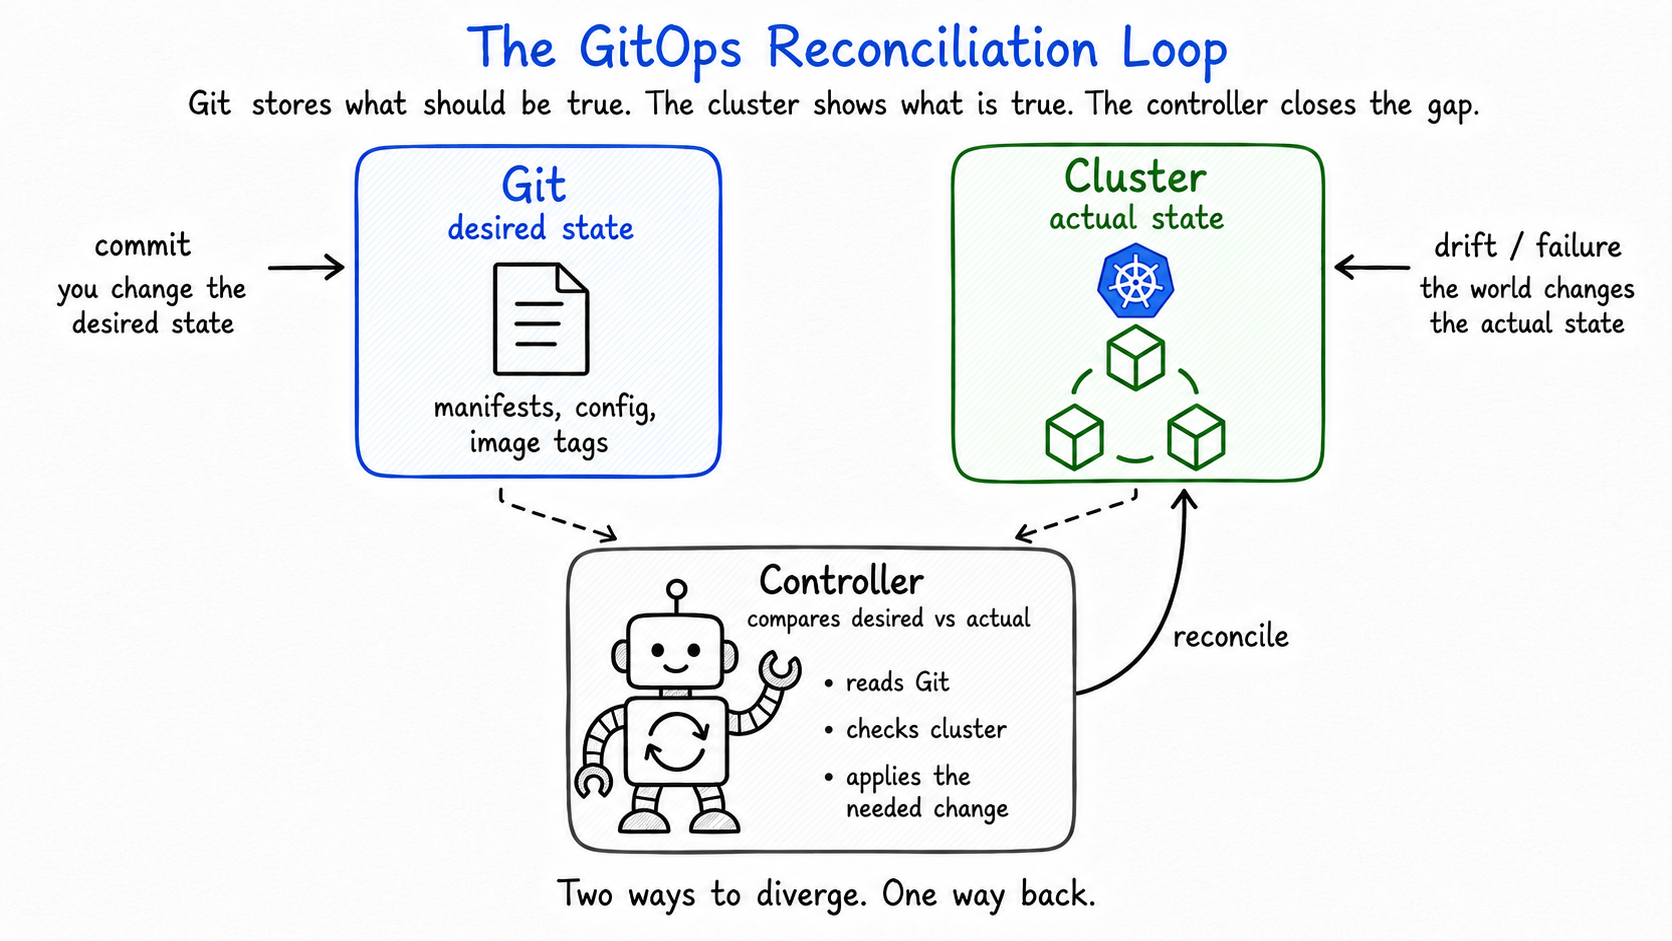
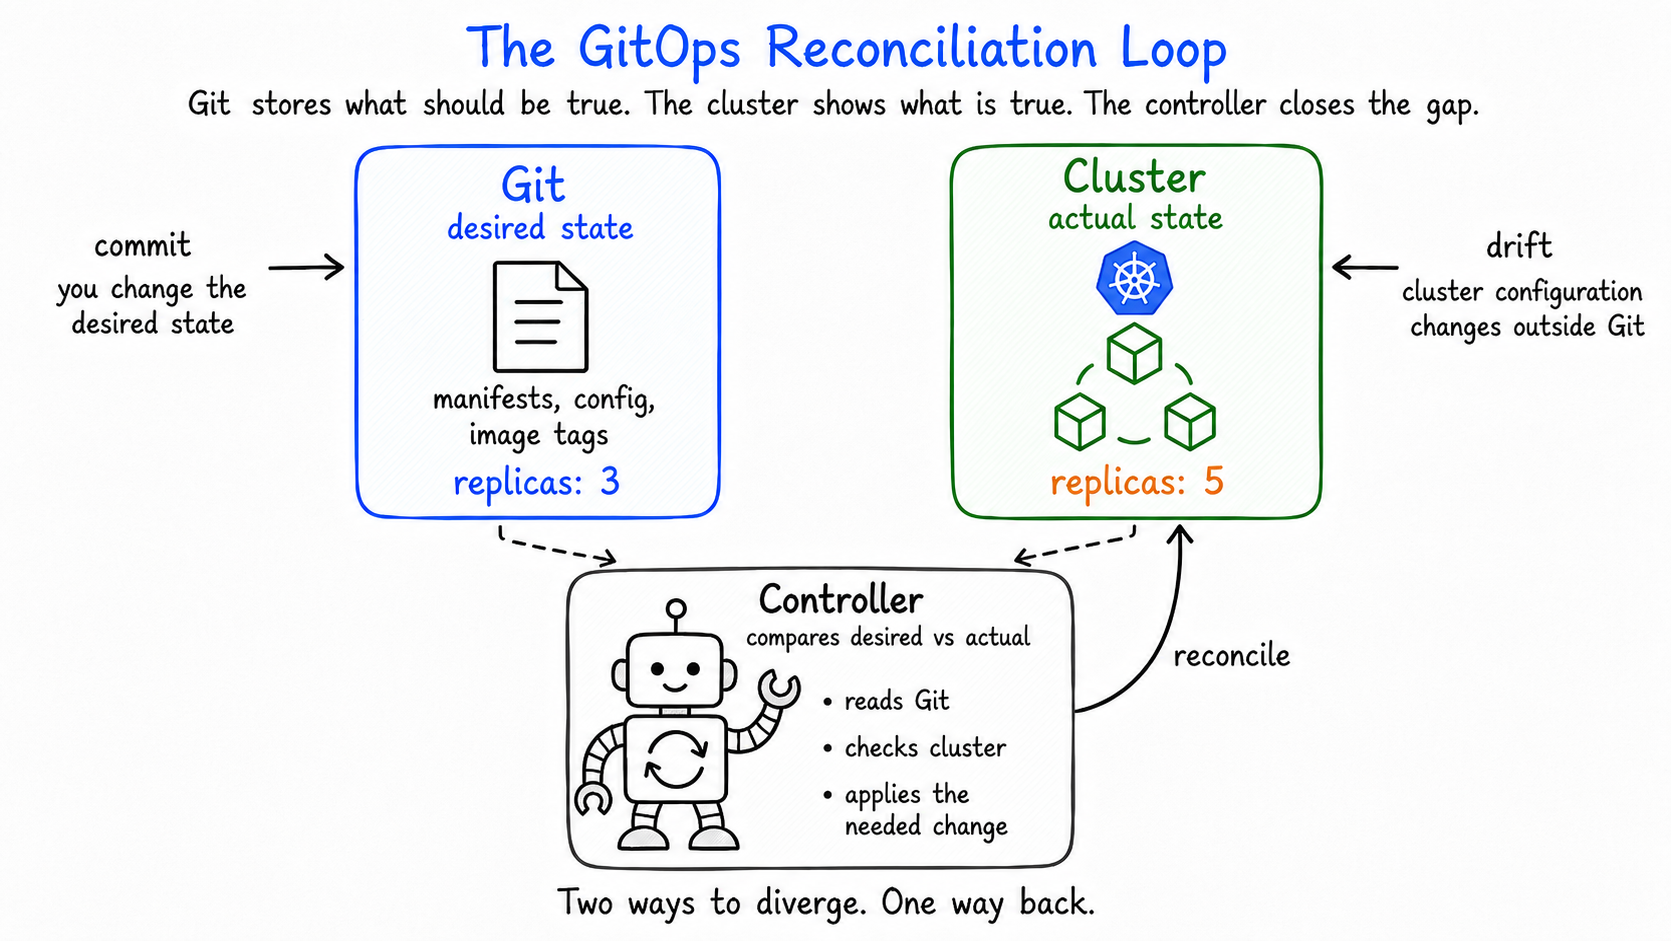
docs: rewrite Day 1 around the reconciliation loop
Restructure Day 1 from a definition-first overview into a single
narrative: a drift incident, the controller that resolves it, and the
watch/compare/reconcile loop traced one cycle at a time.

- Add sections on the GitOps/Kubernetes boundary (which loop owns which
  failure) and where CI stops, replacing the pull-vs-push framing.
- Update the third learning objective to match: the day now teaches
  where the controller's job ends, not why pull beats push.
- Add four diagrams: life-before-gitops, gitops-corrects-drift,
  gitops-workflow, and a replacement gitops-reconciliation-loop that
  also refreshes the README embed (alt text unchanged and still
  accurate).
- Drop six images no longer referenced anywhere in the repo.

diff --git a/Day-1-What-really-is-GitOps.md b/Day-1-What-really-is-GitOps.md
@@ -2,165 +2,243 @@
 
 > **No tools needed today.** This is all mental model — by the end, you'll be able to predict what a GitOps controller does before you've ever touched one.
 
-Let's get straight into it.
-
 By the end of this session, you'll be able to:
 
 - State GitOps in one clear sentence.
 - Trace the reconciliation loop — watch, compare, reconcile — and explain what happens at each step.
-- Explain why pull beats push for Kubernetes, and what that changes for drift, security, and recovery.
+- Explain where the GitOps controller's job ends, and what Kubernetes and CI handle instead.
 - Name the four CNCF principles and recognise them in action.
 
-## The idea — and the loop behind it
+## The problem GitOps solves
 
-If you've used Kubernetes for any length of time, you've seen drift — what's running in the cluster quietly diverges from what you thought was deployed. A manual fix here, an emergency tweak there, and before long your cluster and your repo tell two different stories.
+If you've run Kubernetes for any length of time, you've lived some version of this story.
 
-Teams have tried to close that gap. Configs in Git, deployment scripts, CI pipelines that run on every commit. They help, but they still leave a window: manual changes or external systems can sneak in between pipeline runs, and that's where configuration rot takes hold.
+Your deployment manifests live in a Git repo, because that's good practice. The repo says `replicas: 3`. Meanwhile, at some point during last week's traffic spike, someone on the team ran `kubectl scale deployment app --replicas=5` — a perfectly reasonable thing to do mid-incident. It worked. Everyone moved on.
 
-In 2017, engineers at Weaveworks proposed a different approach: instead of pushing changes into the cluster, let the cluster pull its own configuration from Git — and enforce it continuously. The idea gained traction quickly. Tools like Flux and Argo CD put it into practice, and the CNCF's [OpenGitOps project](https://opengitops.dev) formalised the core principles so teams everywhere could work from the same playbook.
+Now look at the picture your team is left with:
 
-The result is a single idea:
+<p align="center"><img src="./assets/images/life-before-gitops.png" width="80%" alt="Life before GitOps: a developer commits replicas: 3 to the config repo while an operator scales the cluster to 5 directly. Nothing compares the two."></p>
 
-**GitOps means storing the desired state of your system in Git, and running a controller inside the cluster that continuously pulls that state and reconciles the cluster to match it.**
+The repo says one thing. The cluster says another. Nothing compares them — and neither change is wrong. The developer followed the process. The operator fixed a real problem. That's what makes this failure mode so common: it isn't caused by mistakes. It's caused by having two places where truth can live and no mechanism that reconciles them.
+
+So configuration drifts. Quietly, one reasonable change at a time, until the repo is a well-organised work of fiction and the only way to know what's actually running is to go look.
+
+Teams have tried to close this gap by keeping configuration in Git, adding deployment scripts, and running a CI pipeline on every commit. Each one helps, but they share the same blind spot: they act at deploy time. Between deployments, where real life happens, changes made directly to the cluster go unrecorded and uncorrected.
+
+In 2017, engineers at Weaveworks proposed a different operating model and gave it a name: GitOps.
+
+**Store the desired state of your system in Git, and run a controller in the cluster that continuously pulls that state, compares it with what is actually running, and reconciles any difference.**
 
 > If it's not in Git, it shouldn't exist in the cluster.
 > If it's in Git, the cluster should match it.
 
-<img src="assets/images/What-Exactly-Is-GitOps.png" width="50%" alt="GitOps overview comic — define infrastructure as code, store configuration in Git, and a system ensures the cluster matches it.">
+The controller doesn't decide whether three or five is the better number. It makes Git the place where that decision must be recorded.
 
-That controller follows a loop — and it's worth naming it now, because everything else in this series builds on it:
+Look at the diagram again. The question mark in the middle represents the missing mechanism. GitOps fills that space with a controller. And that controller runs a loop worth naming now, because this entire series is built on it:
 
-**Watch → Compare → Reconcile**
+**Watch → Compare → Reconcile.**
 
-- **Watch** — the controller monitors your Git repository for changes.
-- **Compare** — it checks what Git says (desired state) against what's actually running in the cluster (actual state).
-- **Reconcile** — if there's a difference, it updates the cluster to match Git.
+Watch the desired state in Git and the actual state in the cluster. Compare them. Reconcile the cluster whenever they differ. Then repeat, continuously — every few seconds or minutes, not only when someone deploys.
 
-That's the **reconciliation loop**. It runs continuously on a short, predictable cycle — like a heartbeat keeping your cluster aligned. When we refer to "the loop" from here on, this is what we mean.
+By the end of today, you'll be able to predict what the controller will do when Git changes, when the cluster drifts, and when the two disagree in ways you didn't expect.
 
-## Beyond just storing YAML in Git
+## What the controller changes
 
-You might be thinking, *"Hang on — we already keep our manifests in Git. Isn't that GitOps?"*
+Most teams already keep their manifests in Git. If that alone were enough, drift wouldn't persist — the repo in our story said `replicas: 3` the whole time. The record was fine. What was missing was enforcement.
 
-It's a fair question. Most teams do store their Kubernetes configs in Git, and that's a good habit. But here's the thing: storing YAML in Git is like writing down the rules and never checking if anyone's following them.
+Adding a controller — software running inside the cluster, watching Git and acting on what it finds — changes four things at once.
 
-The missing piece is a **controller**.
+**Authority** moves from whoever last touched the cluster to the desired state recorded in Git. You still decide what should run, through commits and reviews. The controller enforces that decision every cycle, without forgetting.
 
-Without one, your Git repo is a record — a place where intentions are documented but never enforced. Changes might get applied by a script, a pipeline, or someone running `kubectl apply` from their laptop. And between those moments, anything can happen. Someone edits a resource directly. A quick fix goes in and never makes it back to Git. The cluster drifts, and your repo doesn't know about it.
+**Direction** reverses. Instead of a deployment pipeline pushing changes into the cluster, the controller pulls the desired state from Git. CI no longer needs deployment credentials for the cluster.
 
-Add a controller, and everything shifts.
+**Timing** becomes continuous. Reconciliation is no longer tied to deployment events. The controller checks on a regular cycle, so drift is corrected before it can quietly accumulate.
 
-YAML in Git without a controller is a record.
+**Evidence** becomes durable. Every change meant to persist flows through Git — commits, branches, reviews. Direct cluster changes can still happen, but there's only one path for a change to become authoritative: Git.
+
+Here's what those four shifts add up to in practice — our incident again, this time with a controller running and automatic self-healing in place:
+
+<p align="center"><img src="./assets/images/gitops-corrects-drift.png" width="80%" alt="GitOps corrects configuration drift: Git declares replicas: 3, a manual kubectl scale sets the cluster to 5, and the controller reconciles the cluster back to 3."></p>
+
+The manual scale to 5 still works in the moment. GitOps changes not whether Kubernetes accepts the command, but whether that change is allowed to become the lasting truth.
+
+On the controller's next pass, it compares: Git says 3, the cluster says 5. It sets the cluster back to 3 — no argument, no meeting; the disagreement was resolved by a comparison, not a conversation. And if 5 turns out to be the right number after all? The caption on the diagram is the entire procedure: commit it. The emergency change becomes a one-line PR, reviewed and recorded, and from then on the controller defends 5 instead.
+
+That's the line between the two worlds:
+
+YAML in Git without a controller is a **record**.
 YAML in Git *with* a controller is a **system**.
 
-That one addition — software running inside the cluster, watching Git and acting on what it finds — changes four things at once:
+## The loop, one cycle at a time
 
-**Authority** moves from you to the controller. You're no longer the one applying changes, remembering to run commands, or hoping the pipeline caught everything. The controller does it, every cycle, without forgetting.
+You've already seen the loop correct drift: the controller detected that someone had manually scaled the service, noticed the cluster no longer matched Git, and brought the cluster back into alignment. Now let's slow the loop down and watch a complete cycle unfold — because the same machinery that fixes drift is also the machinery that deploys everything in a GitOps system. Deployment and drift correction are not separate capabilities. They are the same reconciliation process, responding to different causes of change.
 
-**Direction** reverses. Instead of pushing changes into the cluster from the outside, the cluster pulls its own configuration from Git. Nothing external needs access to your cluster's API.
+Pick up the story where we left it. The emergency scale was correct: five replicas really is what the service needs. So the team captures that decision properly — someone opens a pull request with the one-line change, a teammate reviews it, and the change is merged. Git now says `replicas: 5`. But the cluster is still running 3. Why? Because the controller already corrected the manual change: when someone scaled the cluster directly, the controller saw that Git still declared 3 and restored the cluster to match.
 
-**Timing** becomes continuous. Instead of changes landing whenever someone triggers a pipeline or runs a command, reconciliation happens automatically on a short, predictable cycle. Drift doesn't get a chance to accumulate.
+Now notice what has happened. The two states disagree again — but this time the direction of change is reversed. Previously, the cluster changed and Git stayed the same. Now Git changed and the cluster stayed the same: the desired state has moved, and the cluster hasn't caught up with it. The disagreement looks different, but to the controller it is exactly the same problem — desired ≠ actual — and it is about to respond using the same three-step routine we introduced at the beginning: watch, compare, reconcile.
 
-**Evidence** becomes complete. Every change flows through Git — commits, branches, pull requests, reviews. There are no side doors. If something changed, you can trace exactly when, why, and who.
+<p align="center"><img src="./assets/images/gitops-reconciliation-loop.png" width="80%" alt="The GitOps reconciliation loop: Git stores the desired state, the cluster runs the actual state, and a controller reconciles the cluster whenever the two differ — whether from a commit or from drift."></p>
 
-Here's what that looks like in practice:
+**Watch — gather both sides of reality.** The controller begins by collecting two snapshots. From Git, it reads the desired state: `replicas: 5`. This is what the system *should* look like. From the cluster, it reads the Deployment as currently recorded: `replicas: 3` — the actual state, as far as the controller can see. Nobody manually triggered this check — the reconciliation cycle was going to happen anyway. The merge didn't start the loop; it simply created a difference for the next cycle to discover. The controller now holds both sides of the picture: desired 5, actual 3.
 
-You merge a PR that sets `replicas: 3`.
-Later, someone bumps it to 5 by hand.
-In the next reconciliation cycle, the controller spots the mismatch and sets it back to 3.
-No Slack pings. No late-night debugging. If you *really* want 5 replicas, you change Git. If you need to undo a bad change, you revert the commit.
+**Compare — determine whether alignment exists.** Next, the controller compares the two snapshots. The Deployment is identical in every important way except one field: desired says 5, actual says 3. The result of Compare is a verdict — desired ≠ actual. That's all Compare produces. It only answers one question: are the two states aligned?
 
-That's the line between "we store YAML in Git" and "we do GitOps." The YAML was never the point — the enforcement is.
+**Reconcile — move reality toward the declaration.** The answer is no, so the controller acts. It applies the declared Deployment with `replicas: 5`, and Kubernetes responds by creating two additional pods. The cluster moves from 3 to 5. Now compare this cycle with the drift correction earlier. Previous cycle: desired 3, actual 5 — the action was scale down. This cycle: desired 5, actual 3 — the action is scale up. The action changed direction. The rule did not. The controller always drives actual state toward desired state.
 
-## The reconciliation loop in detail
+**Deployment and drift correction are the same thing.** This is the key idea. A deployment is reconciliation. Drift correction is reconciliation. The controller doesn't have separate logic for "a developer merged a feature," "someone changed the cluster manually," "a rollback was requested," or "an incident fix was committed." All of these become the same question: does the live system match the declared system? If yes, nothing happens. If no, the controller changes reality until they match.
 
-You've seen what the loop does. Now let's open it up and watch one full cycle happen.
+**The loop continues.** After the replicas are updated, the next cycle begins. The controller checks again: desired 5, actual 5. The states match, so the controller makes no change — and that nothing is not inactivity, it's verification. The controller is continuously confirming that the system remains aligned. In a healthy GitOps environment, most reconciliation cycles end this way: watch → compare → desired = actual → no change required. The loop is not a deployment event that runs only when someone pushes code. It's a continuous heartbeat that keeps asking: does reality still match the declaration?
 
-Imagine you have a Git repo containing a Kubernetes Deployment manifest. It declares a simple nginx pod with `replicas: 3` and an image tag of `nginx:1.25`. The GitOps controller — let's say Flux — is installed in your cluster and pointed at that repo.
+Here's the sentence that makes the entire model predictable, and it's worth reading twice:
 
-Here's what one cycle looks like:
+**To the reconciliation loop, a deliberate commit and a manual change reduce to the same condition: desired ≠ actual. The controller moves actual toward desired.**
 
-### Watch
+The controller doesn't understand human intent. It doesn't know that this was an emergency fix, that was a planned feature, this was an accident, that was a rollback. It knows one thing: desired and actual are different. When they differ, it reconciles. The action may be scaling up after a Git change, scaling down after drift, deploying a new version, or restoring a previous one. The mechanism is always the same: **desired state governs actual state.**
 
-The controller polls your Git repository on a regular interval — typically every few minutes. It's not waiting for you to trigger anything. It checks whether the repo has changed since the last time it looked.
+That is the reconciliation loop.
 
-This time, it finds a new commit. You updated the image tag from `nginx:1.25` to `nginx:1.26`.
+## What the controller does — and what it leaves to others
 
-### Compare
+By now, you might be giving the GitOps controller too much credit. It's easy to imagine the controller as the thing that manages everything: deploying applications, fixing failures, recreating pods, and keeping the whole platform healthy.
 
-The controller now holds two pictures of reality:
+But that's not its job. To understand GitOps properly, you need to understand its boundaries. Knowing what the controller **does not** do is just as important as knowing what it does.
 
-- **Desired state** — what Git says: `nginx:1.26`, three replicas.
-- **Actual state** — what's running in the cluster: `nginx:1.25`, three replicas.
+Start with something you saw in the previous cycle. The controller detected desired = 5 replicas, actual = 3 replicas, so it reconciled by applying the Deployment with `replicas: 5`. Then Kubernetes created the two missing pods.
 
-It compares them field by field. Replicas match. Image tag doesn't.
+Notice what did **not** happen. The GitOps controller did not create pods. It did not schedule containers. It did not choose nodes. It changed the desired definition, and Kubernetes handled everything below that.
 
-### Reconcile
+That is the boundary.
 
-The controller applies the difference. It updates the Deployment in the cluster to use `nginx:1.26`. Kubernetes does what it always does — rolls out new pods, drains the old ones.
+### Kubernetes already has its own reconciliation loop
 
-No pipeline triggered this. No one ran `kubectl apply`. The cluster saw the intent in Git and acted on it.
+Kubernetes is itself a reconciliation system. When you declare a Deployment with `replicas: 5`, you're telling Kubernetes that the cluster should continuously maintain five running copies of the application. Kubernetes controllers then work continuously to make reality match that declaration.
 
-### And then it keeps going
+- A pod crashes → the pod disappears → Kubernetes notices → a replacement pod is created.
+- A node fails → the node disappears → Kubernetes detects missing workloads → pods are rescheduled elsewhere.
 
-This is the part that separates GitOps from a one-time sync. The cycle doesn't stop after one successful reconciliation — it starts again. The controller polls Git again. Compares again. If everything matches, it does nothing. If something has drifted — say someone manually scaled the Deployment to 5 replicas — it corrects it on the next pass.
+None of this requires GitOps. No Git commit, no pull request, no Flux, no Argo CD. Kubernetes has been doing this since long before GitOps existed.
 
-That's why we called it a heartbeat in the previous section. It's not a deployment event. It's a continuous process. The cluster is never more than one cycle away from matching Git.
+### GitOps adds another reconciliation layer
 
-### What the controller doesn't do
+So what does the GitOps controller add? One layer above Kubernetes. The simplest way to remember it:
 
-It's worth being clear about boundaries. The controller reconciles what's declared in Git. It doesn't make decisions about *what should be* in Git — that's your job, through commits and pull requests. It doesn't build images, run tests, or manage CI. It has one responsibility: make the cluster match Git, and keep it that way.
+**Kubernetes heals workloads. GitOps heals definitions. It's the same loop, one layer up.**
 
-This separation is what makes the model clean. You think, Git records, the controller enforces.
+The two systems are solving different problems. Kubernetes keeps the objects inside the cluster running: it turns a Deployment into pods, and pods into containers. GitOps keeps those objects aligned with Git: it takes what the repository declares and makes the cluster's objects match.
+
+Together they form two stacked reconciliation loops. Each loop has its own source of truth, its own desired state, its own responsibility. The GitOps controller watches Git. Kubernetes watches the cluster.
+
+There is an important distinction here. The GitOps controller never looks at a pod. Not once.
+
+When it reads the "actual state," it is not checking how many containers are running, whether pods are healthy, or which nodes are hosting workloads. Instead, it reads the Kubernetes objects stored in the cluster. It compares the Deployment definition in Git with the Deployment object currently stored in Kubernetes, and its question is a narrow one: does the cluster's declared configuration match what Git declares? Whether the five pods behind that Deployment are actually running is a different question entirely, and it belongs to Kubernetes.
+
+This means "actual state" has a different meaning depending on which reconciliation loop you're talking about. For the GitOps controller, actual state is the configuration currently stored in Kubernetes. For Kubernetes, actual state is the workloads that are actually running.
+
+The Kubernetes object sits between these two worlds. It is the actual state from the GitOps controller's perspective, but it becomes the desired state that Kubernetes tries to enforce. That handoff is the entire relationship between the two loops.
+
+### Why some failures trigger GitOps and others do not
+
+Return to our manual scaling. Someone changed the Deployment from `replicas: 3` to `replicas: 5`. The definition changed. Git still said 3, the cluster definition said 5. The disagreement existed at the GitOps layer, so the GitOps controller responded: Git ≠ cluster definition. It reconciled and restored the Deployment.
+
+Now consider a different failure. It's 2 AM, a node crashes, and three pods disappear. What does the GitOps controller do?
+
+Nothing.
+
+Why? Because the Deployment still says `replicas: 5`, and Git still says `replicas: 5`. The definitions are aligned. And more than that — the controller never saw the crash at all. Pods are not something it reads. The problem existed below the GitOps layer, where Kubernetes notices that the Deployment requires five pods, only two exist, and repairs the situation itself.
+
+Now change one detail. Someone deletes the Deployment itself.
+
+This is different. The definition is gone. Git says the Deployment exists; the cluster says it's missing. Now the GitOps loop detects desired ≠ actual and restores the Deployment. Then Kubernetes sees a Deployment that exists with no pods behind it, and its own reconciliation loop creates them.
+
+Two loops, two responsibilities, one recovery. This is what people mean when they say Kubernetes and GitOps provide self-healing behaviour: each system heals the part it owns. In the Day 2 lab, you'll trigger exactly this and watch both layers respond.
+
+### What the controller does not decide
+
+The boundary above the controller matters too. The GitOps controller enforces what Git declares. It does not decide what Git *should* declare. That decision belongs to humans and the delivery pipeline.
+
+The controller does not decide whether a feature is good, review application code, choose replica counts, approve architecture changes, or determine whether an application is healthy. Those decisions happen before reconciliation. The controller simply enforces the result.
+
+It also does not replace CI. The GitOps controller does not build container images, run unit tests, scan for vulnerabilities, or package applications. That's CI's responsibility — and we'll place that boundary precisely in the next section.
+
+And it does not monitor whether your application is actually succeeding. It does not know whether users are happy, whether latency is acceptable, or whether the application is producing correct results. A cluster can be perfectly synchronised with Git and still running a terrible application. If Git declares "deploy the broken version," the controller's job is to deploy the broken version correctly.
+
+### The complete boundary
+
+The whole system can now be summarised in four layers:
+
+**You decide. Git records. The controller enforces. Kubernetes runs.**
+
+That narrow responsibility is exactly what makes the reconciliation loop predictable. The controller is not the system that does everything. It is the system that does one thing relentlessly: keep the cluster's declared state aligned with Git.
 
 ## GitOps workflows in practice
 
-You now know what the controller does — and what it doesn't. So where does the rest of the work happen? Let's zoom out and see how the full workflow fits together.
+You now understand what the GitOps controller does and, just as importantly, what it does not do. But that leaves an important practical question: if the controller only reconciles what Git declares, who puts changes into Git in the first place?
 
-![GitOps Workflow Diagram](assets/images/GitOps-Loop.png)
+To answer that, follow one change from beginning to end — from a developer writing code, all the way to new pods running in Kubernetes.
 
-### The two-repository pattern
+### Two repositories, two responsibilities
 
-In GitOps, work is typically split across two repositories:
+Most GitOps implementations separate application code from deployment configuration by using two repositories.
 
-1. **Application repo** — your source code, tests, and Dockerfiles. This is where developers build.
-2. **Configuration repo** — your Kubernetes manifests, Helm charts, or Kustomize configs. This is what the controller watches.
+The first is the **application repository**. This is where developers work. It contains the source code, the tests, the dependencies, and the Dockerfile used to build container images.
 
-Why split them? Because code changes and deployment configuration have different lifecycles. A developer shipping a new feature shouldn't need to touch infrastructure config. A platform engineer tuning resource limits shouldn't need to rebuild the application. Each repo has its own review process, its own history, and its own pace.
+The second is the **configuration repository**. This contains the Kubernetes manifests, Helm charts, and values files that describe the desired state of the environment. This is the repository watched by the GitOps controller.
+
+Why separate them? Because application code and infrastructure configuration change for different reasons and at different speeds. A developer adding a new feature shouldn't need to modify production deployment settings. A platform engineer changing CPU limits or scaling rules shouldn't need to touch application source code. Keeping them separate gives each repository its own history, review process, ownership, and lifecycle.
+
+<p align="center"><img src="./assets/images/gitops-workflow.png" width="80%" alt="The GitOps workflow: developers push code, CI builds an image and updates the config repo, the GitOps operator detects the change and reconciles the cluster, and the cluster pulls the image from the registry."></p>
 
 ### From commit to cluster
 
-Here's how a change flows through the system:
+Now follow a normal application change.
 
-You push code to the **application repo**. CI picks it up — builds the code, runs the tests, creates a container image, and pushes that image to a registry. Then CI does one more thing: it updates the **configuration repo** with the new image tag.
+A developer writes code and pushes it to the application repository. At this point, CI takes over: the pipeline builds the application, runs the automated tests, creates a container image, and pushes that image to a container registry.
 
-That's where CI's job ends.
+Then CI does one more thing, and it's the important one. It updates the configuration repository with the new image reference — changing, say, `image: payments:v1.2` to `image: payments:v1.3`.
 
-The controller, watching the configuration repo, picks up the change on its next cycle. It compares, finds the new image tag, and reconciles the cluster to match. The loop handles the rest.
+That commit is the handoff point. And this is where CI stops.
 
-### The key shift
+CI does **not** connect directly to the Kubernetes cluster. It does **not** run `kubectl apply`. It does **not** need production cluster credentials. Its responsibility is complete once the desired state has been updated in Git.
 
-Notice what never happens in this flow: the CI pipeline never talks to your cluster. It has no credentials, no API access, no direct connection. It writes to Git, and that's it.
+### The controller takes over
 
-The cluster only trusts one source — the configuration repo. Everything else is outside the wall.
+From here, the process is the same reconciliation loop you've already seen.
 
-This is the "front door" principle. In a traditional push model, CI has a side door straight into your cluster — anyone with pipeline credentials can deploy. In GitOps, there's only the front door: Git. Every change is visible, reviewable, and reversible before it ever reaches the cluster.
+The GitOps controller checks the configuration repository during its next cycle and finds that Git now declares a new image version. The cluster's stored Deployment still declares the previous one. The two states do not match — desired: new image, actual: old image — so the controller reconciles. It applies the updated Deployment configuration.
+
+Kubernetes then performs the rollout. It creates new pods using the updated image, pulls that image from the container registry, and gradually replaces the old pods according to the rollout strategy.
+
+Notice the division of responsibilities. The GitOps controller changes the Deployment definition. Kubernetes manages the running workload. The container registry stores the image. Each component does the part it owns.
+
+### The handoff is a Git commit
+
+The most important connection between CI and GitOps is surprisingly simple: a Git commit.
+
+CI writes to the configuration repository. The GitOps controller reads from the configuration repository. Neither system needs to call the other directly. Neither system needs access to the other's environment. The repository itself becomes the boundary between them.
+
+This separation is one of the defining ideas behind GitOps: the single front door.
+
+Traditional deployment pipelines usually work by pushing changes directly into the cluster. The pipeline holds cluster credentials and executes deployment commands. That creates a direct path into production — anyone who can modify the pipeline can potentially modify the environment.
+
+GitOps changes this model. The cluster does not accept changes pushed from outside. It trusts exactly one source: the configuration repository. The controller continuously watches that repository and brings the cluster into alignment with it.
+
+Every production change now has a visible history. Someone changed a file. A commit was created. A review happened. The controller reconciled it. The path into production is no longer a hidden deployment command — it's a Git change that can be inspected, reviewed, and reverted.
+
+### The complete flow
+
+The full story, end to end: a developer changes application code. CI builds and tests that code, creates an image, and records the new version in the configuration repository. The GitOps controller notices the change and updates Kubernetes. Kubernetes runs the new workload.
+
+The only thing passed between these systems is the desired state stored in Git.
+
+**CI creates the artifact. Git records the desired state. The controller enforces it. Kubernetes runs it.**
 
 ## Where GitOps fits alongside CI
 
-If you're wondering whether GitOps replaces your CI pipeline — it doesn't. It replaces the part that comes after.
+A common worry at this point: does GitOps replace our CI pipeline?
 
-Most teams today run a pipeline that does everything: build the code, run the tests, scan the image, and then deploy it to the cluster. GitOps draws a line through that sequence. Everything before the line stays. Everything after it changes.
+No. It replaces the part that comes after.
 
-<img src="assets/images/CI-CD-vs-GitOps-Comparison.png" width="50%" alt="CI/CD vs GitOps comparison comic — CI/CD pushes changes to the cluster, GitOps lets the cluster pull from Git.">
-
-**CI builds and validates.** It compiles your code, runs your test suite, scans for vulnerabilities, builds the container image, pushes it to a registry, and updates the configuration repo with the new image tag.
-
-**GitOps deploys and enforces.** The controller picks up the change from the configuration repo, reconciles the cluster, and keeps it aligned from that point forward.
-
-They meet at one point: **the configuration repo.** That's the handoff. CI writes to it. The controller reads from it. Neither crosses into the other's territory.
-
-Here's what that boundary looks like in practice:
+Most teams run a pipeline that does everything — build, test, scan, deploy. GitOps draws a line through that sequence. Everything before the line stays exactly as it is. Everything after it changes hands.
 
 | Responsibility | CI | GitOps controller |
 | --- | --- | --- |
@@ -169,48 +247,46 @@ Here's what that boundary looks like in practice:
 | Scan images for vulnerabilities | ✓ | |
 | Push image to registry | ✓ | |
 | Update config repo with new tag | ✓ | |
-| Detect config changes | | ✓ |
-| Apply changes to cluster | | ✓ |
+| Detect configuration changes | | ✓ |
+| Apply changes to the cluster | | ✓ |
 | Correct drift | | ✓ |
 | Maintain continuous reconciliation | | ✓ |
 
-Notice there's no overlap. That's by design. CI has no credentials to the cluster. The controller has no role in building or testing. Each system does one job well, and the config repo is the contract between them.
+Notice there's no overlap. That's not an accident — it's the whole design. CI has no credentials to your cluster. The controller has no role in building or testing. The configuration repository is the contract between them, and it's the only thing they share.
 
-This is why GitOps doesn't ask you to throw out your existing pipeline. It asks you to stop it one step earlier — before it touches the cluster — and let the controller handle the rest.
+So GitOps doesn't ask you to throw out your pipeline. It asks you to stop it one step earlier — before it touches the cluster — and let the controller take it from there.
 
-## The four principles — named
+## The four principles, named
 
-Everything you've seen today has a formal name. The CNCF's [OpenGitOps project](https://opengitops.dev) distilled the patterns that teams like Weaveworks, Flux, and Argo CD had been practising into four core principles. You've already seen each one in action — here's what the community calls them.
+Everything you've seen today has a formal name. The CNCF's [OpenGitOps project](https://opengitops.dev) distilled what teams practising GitOps had in common into four principles. You've already watched each one in action — here's what the community calls them.
 
-**1. Declarative**
-You describe the end state, not the steps to get there. When you wrote `replicas: 3`, you didn't tell Kubernetes *how* to create three pods — you told it *what you wanted*. The system figured out the rest.
+**1. Declarative.** You describe the end state, not the steps to reach it. When the manifest said `replicas: 3`, nobody told Kubernetes *how* to create three pods. The declaration was the instruction.
 
-**2. Versioned and immutable**
-Every change lives in Git — committed, reviewed, and reversible. When we said "if you want to undo a bad change, you revert the commit," that's this principle at work. Git is the single source of truth, and its history can't be quietly rewritten.
+**2. Versioned and immutable.** Every change lives in Git — committed, reviewed, reversible. When the emergency scale to five turned out to be right, it didn't stay a live edit. It became a pull request, with a reviewer and a history. That's the difference between a change that happened and a change anyone can find later.
 
-**3. Pulled automatically**
-The cluster fetches its own configuration from Git. Nothing pushes in from the outside. This is the direction reversal you saw in section three — and the reason CI never needs credentials to your cluster.
+**3. Pulled automatically.** The cluster fetches its own configuration. Nobody deployed the new replica count — no pipeline ran, no one clicked anything. The controller pulled the change on its next cycle. This is also why CI never needed cluster credentials.
 
-**4. Continuously reconciled**
-The loop doesn't stop. Watch, compare, reconcile — on every cycle, the controller checks for drift and corrects it. This is the heartbeat that makes self-healing possible.
+**4. Continuously reconciled.** The loop doesn't stop. It corrected the manual scale, applied the merged PR, restored a deleted Deployment, and — most of the time — found that desired already equalled actual and did nothing at all. That last case is the principle working, not resting.
 
-<img src="assets/images/The-Four-GitOps-Principles.png" width="50%" alt="The four GitOps principles illustrated — Declarative, Versioned and Immutable, Pulled Automatically, Continuously Reconciled.">
-
-If someone tells you they "do GitOps," these are the four things you should be able to see in action. If a tool claims to be GitOps-compliant, these are the four boxes it needs to tick. And if you're ever evaluating an approach and something feels off, check it against these — the gap will usually point you to which principle is missing.
+If someone tells you they "do GitOps," these four are what you should be able to see. If a tool claims to be GitOps-compliant, these are the boxes it needs to tick. And if something about an approach feels off, check it against these — the gap usually names the missing principle.
 
 ## What's next — on to Day 2
 
-At this point you might be thinking: this all sounds great, but how much setup pain am I signing up for?
+That's the mental model. Look at what you can now do with it.
 
-Less than you'd expect.
+Someone scales a Deployment by hand — you know it comes back, and why. A node dies at 2 AM — you know the GitOps controller sleeps through it, and which loop wakes instead. Someone deletes a namespace — you know both loops fire, in order. A pipeline pushes a new image tag — you know it's the same reconciliation as everything else, just with a different author.
 
-In Day 2, you'll take everything from today's mental model and make it real — on your laptop, with no cloud accounts and no complex infrastructure. Here's what you'll do:
+That's the promise the opening made: predicting what the controller does before you've ever touched one.
 
-- **Spin up** a local Kubernetes cluster using kind.
+Tomorrow you find out whether you were right.
+
+In Day 2, you'll build this on your laptop:
+
+- **Spin up** a local Kubernetes cluster with kind.
 - **Install Flux** and point it at a Git repository.
 - **Deploy an app** by committing a manifest — no `kubectl apply`.
-- **Break something on purpose** — and watch the reconciliation loop put it back.
+- **Break it on purpose** — and watch the loop put it back.
 
-By the end, you'll have a working self-healing system running locally. The loop you've been reading about will be running in front of you.
+Every prediction you just made is testable in about an hour.
 
 **Ready to build it?** [Continue to Day 2 →](./Day-2-Building-Your-First-Self-Healing-System.md)